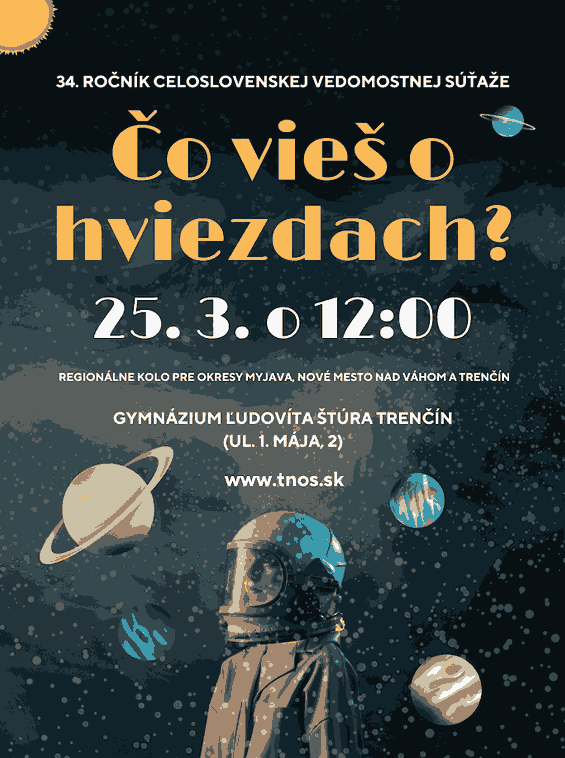
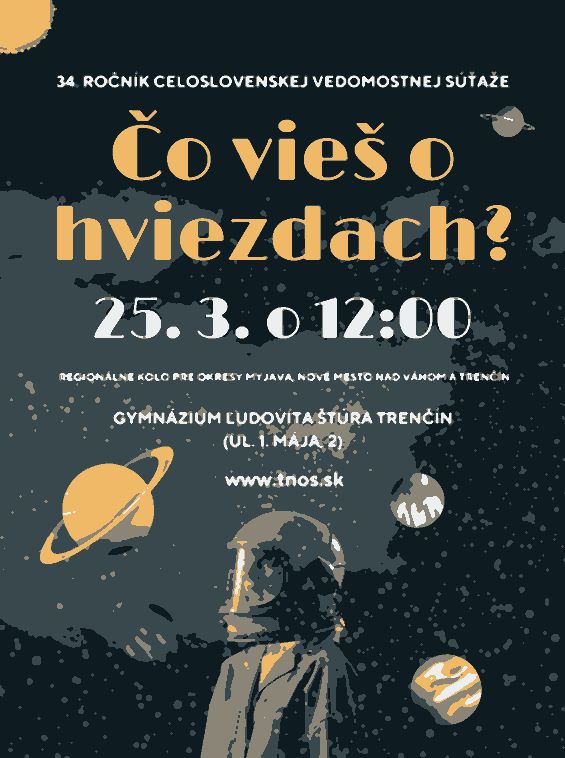
wip

diff --git a/pbn-gen.py b/pbn-gen.py
@@ -18,7 +18,7 @@ Shape = tp.Tuple[int, ...]
 
 
 ###################################################################
-#                         COLOR CLUSTERING                        #
+#              COLOR CLUSTERING AND IMAGE PROCESSING              #
 ###################################################################
 
 def cluster(image: Img, n_colors: int, seed: int = 0) -> tp.Tuple[Colors, Img]:
@@ -26,37 +26,54 @@ def cluster(image: Img, n_colors: int, seed: int = 0) -> tp.Tuple[Colors, Img]:
         replaced by their assigned cluster center (color).
 
         Args:
-            image: The image to cluster.
-            n_colors: The number of colors to cluster the image into.
+            image (Img): The image to cluster.
+            n_colors (int): The number of colors to cluster the image into.
             seed: The seed for the random number generator.
 
         Returns:
-            colors: The cluster centers (colors).
-            clustered_image: The image with the colors replaced
-                             by their assigned cluster center.
+            Colors: The cluster centers (colors).
+            Img: The image with the colors replaced by their assigned cluster center.
     """
 
     pixels = image.reshape(-1, 3)
-    kmeans = KMeans(n_clusters=n_colors, random_state=seed).fit(pixels)
+    kmeans = KMeans(n_clusters=n_colors, random_state=seed, n_init='auto').fit(pixels)
     colors = kmeans.cluster_centers_.astype(np.uint8)
     labels = kmeans.labels_.astype(np.uint8)
     return colors, labels
 
 
-def get_colored_image(shape: Shape, colors: Colors, labels: Img) -> Img:
+def get_smooth_image(shape: Shape, colors: Colors, labels: Img, blur_size: int = 3) -> Img:
     """ Get an image where each pixel is colored with the color of its cluster center.
+        The image is smoothed using a median filter.
 
         Args:
             shape (Shape): The shape of the image.
             colors (Colors): The cluster centers (colors).
             labels (Img): The cluster labels of each pixel.
+            blur_size (int): The size of the neighborhood for smoothing.
 
         Returns:
-            colored_image (Img): The image with the pixels colored
-                           with the color of their cluster center.
+            Img: The image with the pixels colored with the color of their cluster center
+                 after smoothing with a median blur filter.
     """
 
-    return colors[labels].reshape(shape)
+    img: Img = colors[labels].reshape(shape)
+    return cv.medianBlur(img, blur_size)
+
+
+def blur_image(image: Img, blur_size: int = 3) -> Img:
+    """ Apply a bilateral filter to an image.
+
+        Args:
+            image (Img): The image to blur.
+            blur_size (int): The size of the neighborhood for smoothing.
+
+        Returns:
+            Img: The blurred image.
+    """
+
+    return cv.bilateralFilter(image, blur_size, 75, 75)
+
 
 
 ###################################################################
@@ -71,6 +88,9 @@ def load_image(path: str) -> np.ndarray:
 
 def save_image(path: str, image: np.ndarray) -> None:
     """Save an image to a file."""
+
+    if not path.endswith('.png'):
+        path += '.png'
 
     cv.imwrite(path, image)
 
@@ -89,7 +109,7 @@ def _arg_parser() -> ArgumentParser:
     parser.add_argument('-o', '--output',
                         type=str, required=True,
                         help='Path of output image. \
-                              The file extension is ignored and set to .png'
+                              The file extension is always set to .png'
     )
     parser.add_argument(
         '-k', '--color-palette-size',
@@ -120,8 +140,10 @@ def main() -> None:
     print(args) # debug
     for path in args.input:
         image = load_image(path)
+        image = blur_image(image)
+        cv.imshow('image', image); cv.waitKey(0); cv.destroyAllWindows() # debug
         colors, labels = cluster(image, args.color_palette_size)
-        colored_image = get_colored_image(image.shape, colors, labels)
+        colored_image = get_smooth_image(image.shape, colors, labels)
         cv.imshow('image', colored_image); cv.waitKey(0); cv.destroyAllWindows() # debug
         save_image(args.output, colored_image)
 
